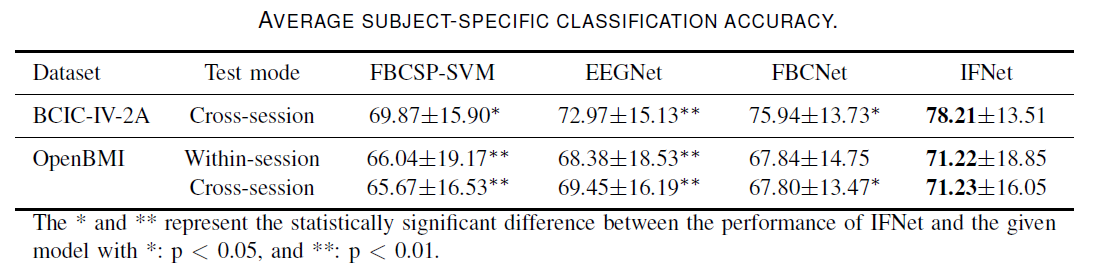
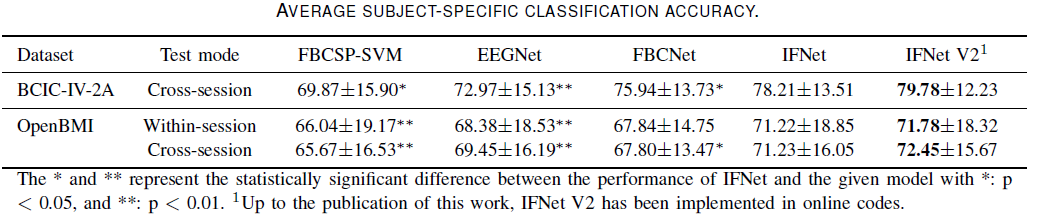
Add files via upload

diff --git a/cross_validation.py b/cross_validation.py
@@ -1,0 +1,180 @@
+import numpy as np
+import torch
+from torch import nn
+from torch.utils.data import DataLoader
+import os
+import csv
+import datetime
+from sklearn.model_selection import train_test_split
+
+from TEEGM.data.datasets import preprocess, k_fold_generator, EEG_Dataset, seed_torch, window_split
+from TEEGM.models.IFNet import IFNet
+from TEEGM.utils.engine import train, retrain, validate, evaluate
+from TEEGM.utils.tools import Compose
+from TEEGM.optimizer import build_optimizer
+from TEEGM.data.repeated_trial_augmentation import RepeatedTrialAugmentation
+from TEEGM.data.random_erasing import RandomErasing
+from TEEGM.data.random_crop import RandomCrop
+from TEEGM.data.cutmix import CutMix
+
+from yacs.config import CfgNode
+from config import get_config
+
+
+
+def build_lr_scheduler(optimizer, config, n_iter_per_epoch):
+    scheduler = torch.optim.lr_scheduler.CosineAnnealingLR(optimizer, n_iter_per_epoch * config.TRAIN.EPOCHS,
+                                                           eta_min=config.TRAIN.BASE_LR * (10 ** -2))
+    return scheduler
+
+
+def build_datasets_files(config, stage='train'):
+    datasets = []  # target files for each subject
+    target_file = config.DATA.TRAIN_FILES if stage == 'train' else config.DATA.TEST_FILES
+    for dir in sorted(os.listdir(config.DATA.DATA_PATH)):
+        if '.' in dir:
+            continue
+        data_files = []
+        for file in sorted(os.listdir(config.DATA.DATA_PATH + dir)):
+            if file in target_file:
+                data_files.append(config.DATA.DATA_PATH + dir + '/' + file)
+        if data_files:
+            datasets.append(data_files)
+    return datasets
+
+
+def build_tranforms(config):
+    return Compose([
+        RandomCrop(config.MODEL.TIME_POINTS),
+        CutMix(),  #used in IFNet V2
+        RandomErasing(),
+    ])
+
+
+def build_retrainer(config, train_x, train_y, val_x, val_y, model):
+    trainval_x = torch.cat((train_x, val_x), dim=0)
+    trainval_y = torch.cat((train_y, val_y), dim=0)
+    trainval_loader = DataLoader(EEG_Dataset(trainval_x, trainval_y), batch_size=config.DATA.BATCH_SIZE,
+                              shuffle=True, num_workers=0, drop_last=True)
+    val_loader = DataLoader(EEG_Dataset(*window_split(trainval_x, trainval_y, config)), batch_size=config.DATA.BATCH_SIZE * 4,
+                              shuffle=False, num_workers=0, )
+
+    optimizer = build_optimizer(model, config)
+    scheduler = None
+    return {'trainval_loader':trainval_loader, 'val_loader':val_loader, 'optimizer':optimizer, 'scheduler':scheduler}
+
+
+def train_model(config, train_x, train_y, val_x=None, val_y=None, subject=''):
+    transform = build_tranforms(config)
+    rta = RepeatedTrialAugmentation(transform, m=config.DATA.RTA)
+
+    print(train_x.shape), print(train_y.shape)
+    print(val_x.shape), print(val_y.shape)
+    train_x, train_y, val_x, val_y = torch.from_numpy(train_x).cuda(), torch.from_numpy(train_y).long().cuda(), \
+                                     torch.from_numpy(val_x).cuda(), torch.from_numpy(val_y).long().cuda()
+
+    train_loader = DataLoader(EEG_Dataset(train_x, train_y), batch_size=config.DATA.BATCH_SIZE,
+                              shuffle=True, num_workers=0, drop_last=True)
+    val_loader = DataLoader(EEG_Dataset(*window_split(val_x, val_y, config)), batch_size=config.DATA.BATCH_SIZE * 4, shuffle=False,
+                            num_workers=0, )
+
+    model = IFNet(config.MODEL.IN_CHANS, config.MODEL.EMBED_DIMS, kernel_size=config.MODEL.KERNEL_SIZE, radix=config.MODEL.RADIX,
+                  patch_size=config.MODEL.PATCH_SIZE, time_points=config.MODEL.TIME_POINTS, num_classes=config.MODEL.NUM_CLASSES, )
+    print('\n', model)
+    # from TEEGM.models.EEGNet import eegNet
+    # model = eegNet(22, 768, F1=8, D=2, nClass=4, C1=63, dropoutP=0.5)
+    # from TEEGM.models.FBCNet import FBCNet
+    # model = FBCNet(22, 750, nClass=4, strideFactor=3)
+    model.cuda()
+    total_trainable_params = sum(
+        p.numel() for p in model.parameters() if p.requires_grad)
+    print(f'{total_trainable_params:,} training parameters.')
+
+    criterion = nn.CrossEntropyLoss(reduction='mean')
+    optimizer = build_optimizer(model, config)
+    #scheduler = build_lr_scheduler(optimizer, config, len(train_loader))
+    scheduler = None
+
+    model, optimizer_state, best_train_loss, best_val_loss = train(model, train_loader, val_loader, criterion, optimizer, scheduler,
+                                              config.TRAIN.EPOCHS, plot=True, rta=rta)
+
+    train_loader = DataLoader(EEG_Dataset(*window_split(train_x, train_y, config)), batch_size=config.DATA.BATCH_SIZE * 4,
+                              shuffle=False, num_workers=0, )
+    best_train_loss, _ = validate(model, train_loader,)
+    print(f'best train loss {best_train_loss}')
+    best_val_loss, best_val_acc = validate(model, val_loader)
+
+    if config.TRAIN.RETRAIN:
+        retrainer = build_retrainer(config, train_x, train_y, val_x, val_y, model)
+        retrainer['optimizer'].load_state_dict(optimizer_state)
+        model = retrain(best_train_loss, model, retrainer['trainval_loader'], retrainer['val_loader'],
+                        criterion, retrainer['optimizer'], retrainer['scheduler'],
+                        config.TRAIN.RETRAIN_EPOCHS, rta=rta)
+    return model, best_val_acc
+
+
+def main(config: CfgNode):
+    os.chdir(os.path.dirname(os.path.abspath(__file__)))
+    #print(os.getcwd())
+
+    torch.cuda.set_device(config.DEVICE)
+    seed_torch(config.SEED)
+    print(f'device {config.DEVICE} is used for training')
+
+    train_datasets = build_datasets_files(config, stage='train') # file list in subject list
+
+    acc_subjects = []
+    for i in range(len(train_datasets)):
+        subject = train_datasets[i][0].split('/')[-2]
+        print(f'------start {subject} training------')
+
+        if config.EVAL:
+            models = torch.load(f'{config.OUTPUT}/models/{subject}_{config.TAG}.pth', map_location=f'cuda:{torch.cuda.current_device()}')
+
+        subject_train_files = train_datasets[i]
+        subject_trainval_gen = k_fold_generator(config, subject_train_files)
+        proxy_acc_subject = []  # compatible with two-stage training strategy
+        val_acc_subject = []
+        model_set = []
+        for k, (train_x, train_y, val_x, val_y) in enumerate(subject_trainval_gen):
+            print(f'------start {k + 1} fold------')
+            for _ in range(config.TRAIN.REPEAT):
+                torch.cuda.empty_cache()
+                if config.EVAL:
+                    model = models.pop(0)
+                    proxy_acc_subject.append(0.)
+                else:
+                    pseudo_train_x, proxy_x, pseudo_train_y, proxy_y = train_test_split(train_x, train_y, test_size=1/config.DATA.K_FOLD, random_state=config.SEED)
+                    model, proxy_acc = train_model(config, pseudo_train_x, pseudo_train_y, proxy_x, proxy_y, subject)
+                    proxy_acc_subject.append(proxy_acc)
+                    if config.SAVE:
+                        model_set.append(model.cpu())
+                val_loader = DataLoader(EEG_Dataset(*window_split(torch.from_numpy(val_x).cuda(), torch.from_numpy(val_y).long().cuda(), config)),
+                                        batch_size=config.DATA.BATCH_SIZE * 4, shuffle=False, num_workers=0, )
+                val_acc_subject.append(evaluate(model, val_loader))
+        if config.SAVE and not config.EVAL:
+            os.makedirs(f'{config.OUTPUT}/models/', exist_ok=True)
+            torch.save(model_set, f'{config.OUTPUT}/models/{subject}_{config.TAG}.pth')
+        acc_subjects.append([subject, np.mean(val_acc_subject), np.mean(proxy_acc_subject)] +
+                            [*val_acc_subject, *proxy_acc_subject])
+        print(f'{subject}: val set acc: {acc_subjects[-1][1]:.4f}\n')
+
+    os.makedirs(f'{config.OUTPUT}/', exist_ok=True)
+    file = f'{config.OUTPUT}/{config.EVAL_TAG}.csv' if config.EVAL else f'{config.OUTPUT}/{config.TAG}.csv'
+    with open(file, 'w') as f:
+        writer = csv.writer(f)
+        writer.writerow(['subject', 'val_acc', 'proxy_acc', *[''] * (2 * config.DATA.K_FOLD * config.TRAIN.REPEAT)])
+        for acc_subject in acc_subjects:
+            writer.writerow([acc_subject[0], *[f'{acc:.4f}' for acc in acc_subject[1:]]])
+        proxy_acc_avg = np.mean([acc[2] for acc in acc_subjects])
+        val_acc_avg = np.mean([acc[1] for acc in acc_subjects])
+        writer.writerow(['Avg', f'{val_acc_avg:.4f}', f'{proxy_acc_avg:.4f}'])
+
+    print(f'TAG: {config.TAG}')
+    print(f"Subjects' proxy set average acc: {proxy_acc_avg:.4f}")
+    print(f"Subjects' val set average acc: {val_acc_avg:.4f}")
+
+
+if __name__ == '__main__':
+    config = get_config()
+    main(config)

diff --git a/README.md b/README.md
@@ -3,7 +3,7 @@
 
 This is the PyTorch implementation of the IFNet architecture for MI-EEG classification. 
 
-## IFNet: Architecture
+# IFNet: Architecture
 
 ![The IFNet architecture](/IFNet.png)
 
@@ -34,13 +34,13 @@ Specifically, for each .mat file, it contains two items *EEG_data* and *labels* 
 ## IFNet: Results
 
 The classification results for IFNet and other competing architectures are as follows: 
-<div align=center><img src="/results.png" alt="The IFNet results" style="zoom:70%;"/></div>
+<div align=center><img src="/results.png" alt="The IFNet results" style="zoom:80%;"/></div>
 
-We also introduce IFNet V2 which yields the highest **79.89%** classification accuracy on BCIC-IV-2A. This is currently under research  in online settings.
+We also introduce IFNet V2 which yields the highest **79.78%** classification accuracy on BCIC-IV-2A. This is currently under research  in online settings.
 
 ## Cite:
 
-*IEEE Transactions on Neural Systems and Rehabilitation Engineering*.  (Under Review)
+*IEEE Transactions on Neural Systems and Rehabilitation Engineering*.  (Accept)
 
 
 ## Acknowledgment
